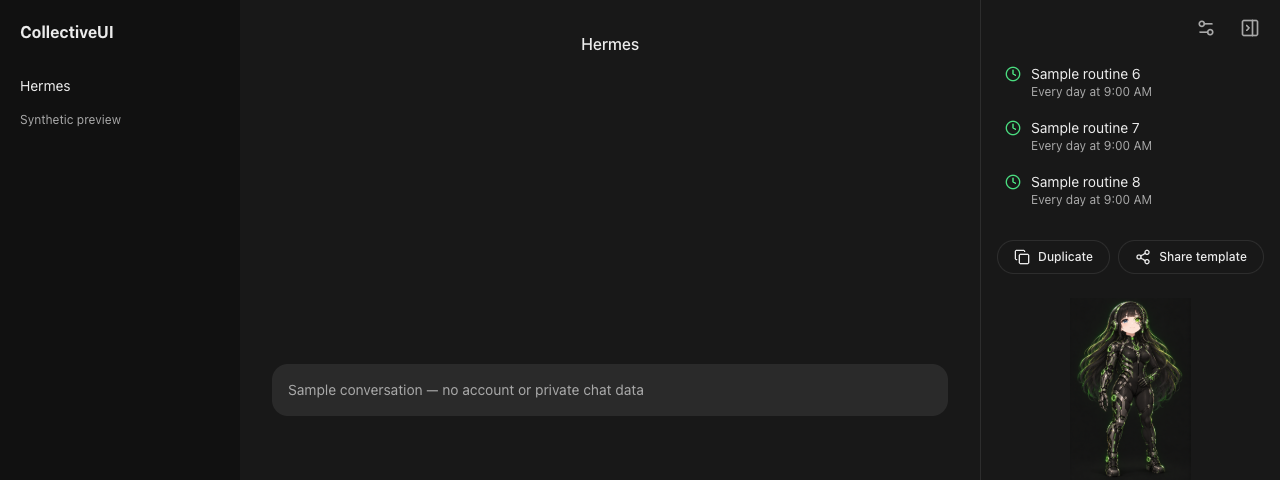
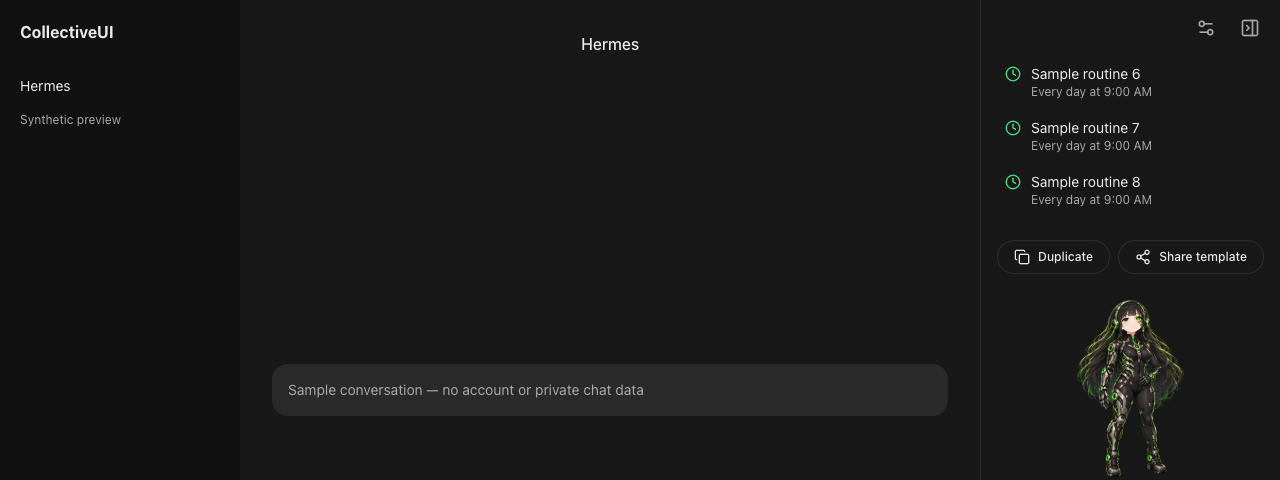
Use transparent Hermes sidebar portrait

Changed region(s): [[0.8438, 0.625, 0.9375, 1.0]]

diff --git a/tests/unit/pet-portraits.test.ts b/tests/unit/pet-portraits.test.ts
@@ -1,6 +1,7 @@
 import { describe, expect, it } from "vitest";
 import { readFile } from "node:fs/promises";
 import { createHash } from "node:crypto";
+import sharp from "sharp";
 import { DEFAULT_PET, type PetView } from "@/lib/pets/shared";
 import { petPortrait } from "@/lib/pets/portraits";
 
@@ -8,10 +9,27 @@ const hermes: PetView = { ...DEFAULT_PET, enabled: true, appearance: "catalog", 
   botDefault: { appearance: "catalog", catalogId: "builtin-hermes-assimilated-v2" } };
 
 describe("sidebar portraits follow the visible pet", () => {
-  it("preserves the supplied artwork byte for byte", async () => {
+  it("preserves the supplied transparent cutout byte for byte", async () => {
     const bytes = await readFile("public/portraits/hermes-assimilated.png");
-    expect(bytes.length).toBe(2_069_982);
[1 lines of base64/hex data omitted]
+    expect(bytes.length).toBe(2_180_226);
[1 lines of base64/hex data omitted]
+  });
+  it("contains a full-size alpha cutout with transparent outside corners", async () => {
+    const image = sharp("public/portraits/hermes-assimilated.png");
+    expect(await image.metadata()).toMatchObject({ width: 1024, height: 1536, hasAlpha: true });
+    const { data, info } = await image.ensureAlpha().raw().toBuffer({ resolveWithObject: true });
+    let transparent = 0;
+    let highestAlpha = 0;
+    for (let i = 3; i < data.length; i += 4) {
+      if (data[i] === 0) transparent++;
+      highestAlpha = Math.max(highestAlpha, data[i]);
+    }
+    expect(transparent).toBeGreaterThan(info.width * info.height / 2);
+    expect(highestAlpha).toBeGreaterThanOrEqual(250);
+    for (const [x, y] of [[0, 0], [info.width - 1, 0], [0, info.height - 1], [info.width - 1, info.height - 1]]) {
+      // The supplied cutout has one 1/255 corner; it composites within one colour level of the sidebar.
+      expect(data[(y * info.width + x) * 4 + 3]).toBeLessThanOrEqual(1);
+    }
   });
   it("shows the supplied Hermes portrait for the selected shared identity", () => {
     expect(petPortrait(hermes)?.src).toBe("/portraits/hermes-assimilated.png");

diff --git a/public/portraits/README.md b/public/portraits/README.md
@@ -1,10 +1,12 @@
 # Hermes Assimilated sidebar portrait
 
-`hermes-assimilated.png` is the user-supplied full-body 2D artwork, preserved byte for byte at 1024 × 1536 pixels (2,069,982 bytes).
+`hermes-assimilated.png` is the user-supplied transparent cutout of the full-body 2D portrait, preserved byte for byte at 1024 × 1536 pixels (2,180,226 bytes).
 
[2 lines of base64/hex data omitted]
 
-The web bot-details sidebar displays this still portrait below activity, routines and actions when the viewer's effective pet is `builtin-hermes-assimilated-v2`. Off, private imports and other catalog choices have no portrait. The image uses containment, keeps the supplied background, and adds no animation. Missing files leave no portrait frame; the controls remain available.
[1 lines of base64/hex data omitted]
+
+The web bot-details sidebar displays this still portrait below activity, routines and actions when the viewer's effective pet is `builtin-hermes-assimilated-v2`. Off, private imports and other catalog choices have no portrait. The image uses containment and transparent outside edges, and adds no animation. Missing files leave no portrait frame; the controls remain available.
 
 The existing [Hermes Assimilated artwork notice](../../assets/pets/hermes-assimilated/README.md) also applies to this portrait and its screenshot reproductions. It is excluded from the application's MIT license. This file is separate from the animated pet atlas.
 

diff --git a/THIRD_PARTY_NOTICES.md b/THIRD_PARTY_NOTICES.md
@@ -24,7 +24,7 @@ Pet adaptation for CollectiveUI by @cl0ud6uru. Inspired by Hermes Agent from Nou
 
 [Hermes Assimilated](assets/pets/hermes-assimilated/README.md) is separate, unofficial Star Trek Borg-inspired fan artwork, not affiliated with or endorsed by Star Trek's owners. Complete reference/character provenance and third-party licensing permissions have not been established. Its artwork and preview/screenshot reproductions are excluded from the application's MIT license. Attribution does not grant underlying rights. The supplied [source notice](assets/pets/hermes-assimilated/SOURCE-README.txt) is preserved.
 
-The user-supplied [full-body sidebar portrait](public/portraits/README.md) is preserved byte for byte as a separate still image. The same artwork notice and MIT exclusion apply.
+The user-supplied transparent edit of the [full-body sidebar portrait](public/portraits/README.md) is preserved byte for byte as a separate still image. The same artwork notice and MIT exclusion apply.
 
 ## The Queen artwork
 

diff --git a/docs/screenshots/hermes-portrait/README.md b/docs/screenshots/hermes-portrait/README.md
@@ -10,4 +10,6 @@ These captures render the production web sidebar and its controls with synthetic
 
 The supplied portrait is reproduced under its [artwork notice](../../../public/portraits/README.md), outside the application's MIT license.
 
+The after captures use the supplied transparent cutout. The character's outside edges composite onto the sidebar's actual dark/light background, with no painted backing rectangle. The original portrait's embedded background is not supplied by CSS.
+
 Regenerate: `BOT_PORTRAIT_SCREENSHOTS=/tmp/hermes-portrait node tests/browser/bot-sidebar-portrait.mjs`. CI saves the same synthetic after captures as `bot-portrait-screenshots`.
